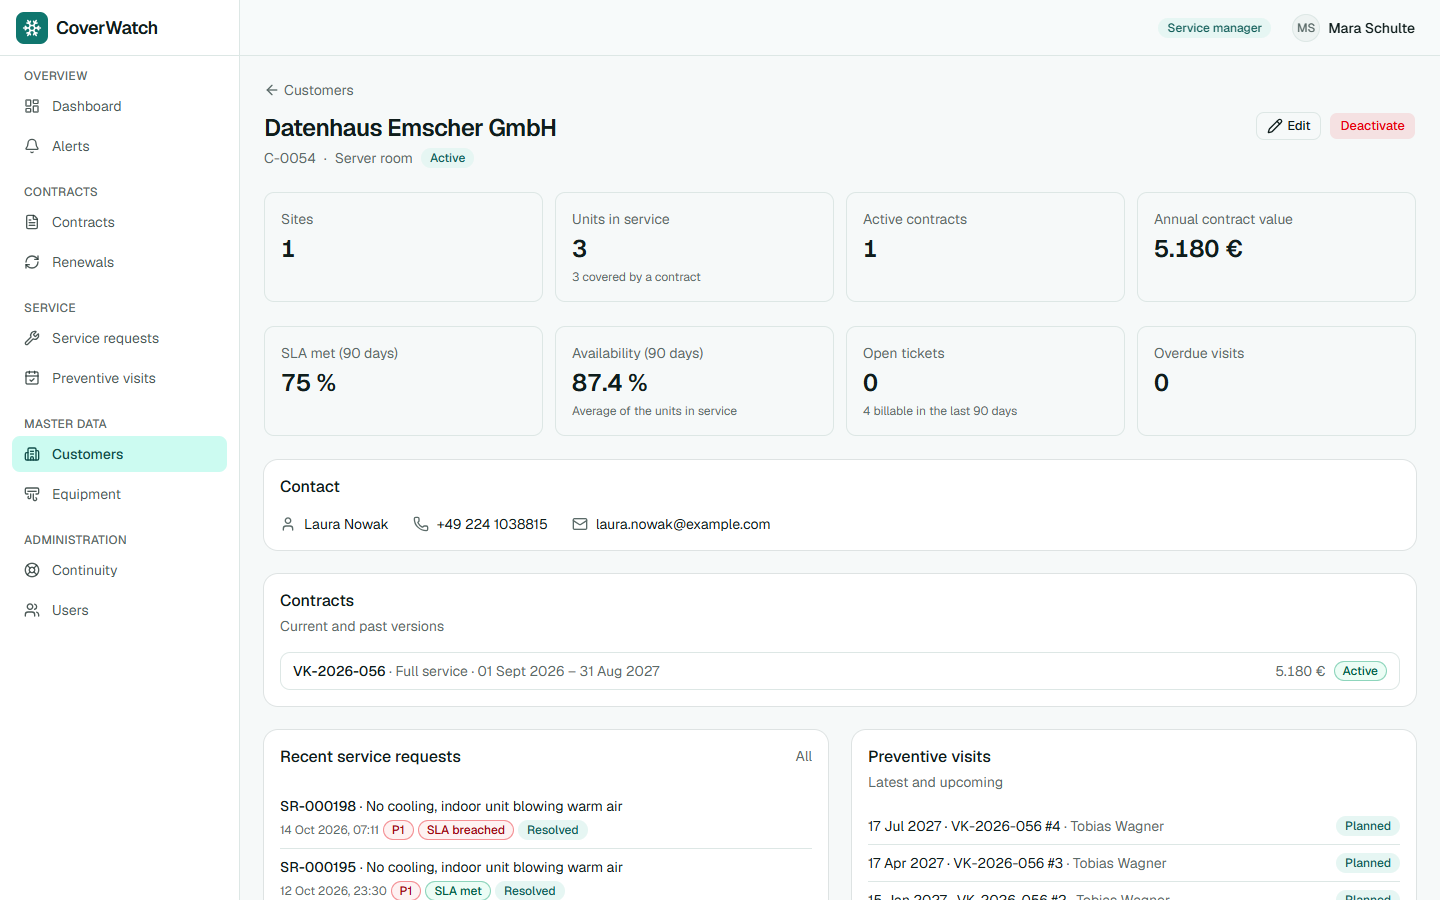
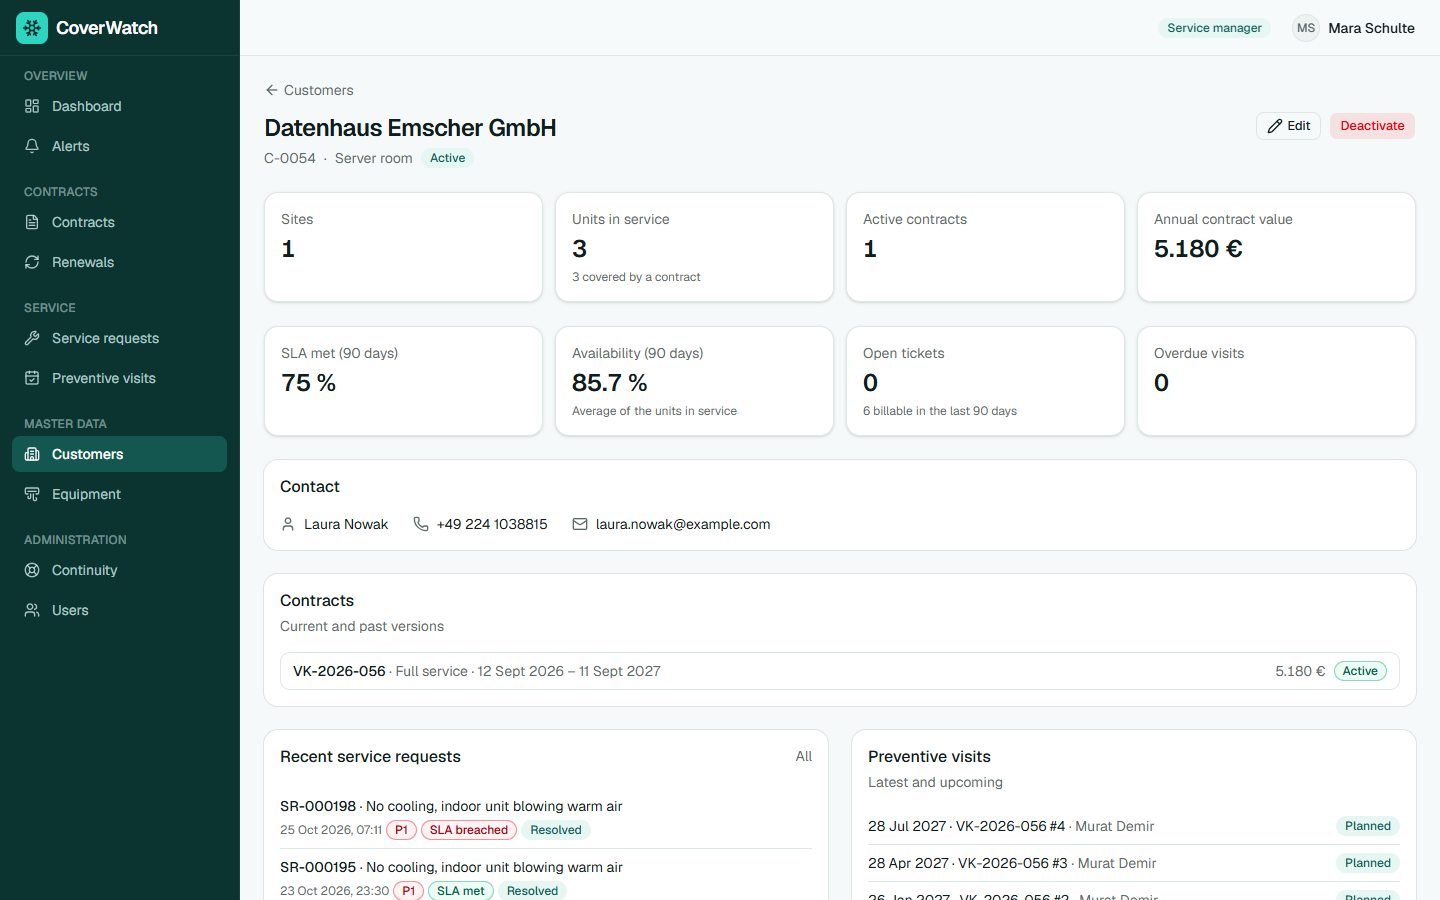
Design: dark petrol sidebar, welcome band and richer KPI tiles
- Dark petrol sidebar and mobile menu with teal active state
- Dashboard welcome band with today's summary and link to alerts
- KPI tiles with icons, grouped sections, red edge and label for
  items that need action; matching style for stat tiles
- README screenshots refreshed with new demo data

diff --git a/app/(app)/dashboard/page.tsx b/app/(app)/dashboard/page.tsx
@@ -2,7 +2,12 @@ import type { Metadata } from "next";
 import Link from "next/link";
 import { connection } from "next/server";
 import { Page } from "@/components/page";
-import { KpiTile } from "@/components/kpi-tile";
+import {
+  Activity, AlertTriangle, Bell, CalendarCheck, CalendarX, Euro, FileText, Receipt, RefreshCw, Timer, Wrench,
+} from "lucide-react";
+import { KpiSection, KpiTile } from "@/components/kpi-tile";
+import { Button } from "@/components/ui/button";
+import { getCurrentUser } from "@/lib/auth";
 import { RenewalValueChart, SlaTrendChart } from "@/components/charts/charts";
 import { Card, CardContent, CardDescription, CardHeader, CardTitle } from "@/components/ui/card";
 import { RENEWAL_BUCKETS, formatEur, type RenewalBucket } from "@/lib/labels";
@@ -12,8 +17,7 @@ export const metadata: Metadata = { title: "Dashboard" };
 
 export default function DashboardPage() {
   return (
-    <Page href="/dashboard" title="Dashboard"
-      description="Portfolio, renewals, service levels and preventive maintenance. Every number is calculated by the database; click a tile to see the list behind it.">
+    <Page href="/dashboard">
       <Dashboard />
     </Page>
   );
@@ -26,7 +30,7 @@ const pct = (v: number | null | undefined) => (v == null ? "–" : `${v} %`);
 
 async function Dashboard() {
   await connection();
-  const supabase = await createClient();
+  const [user, supabase] = await Promise.all([getCurrentUser(), createClient()]);
   const since12m = monthsAgoIso(11);
 
   const [kpiRes, pipelineRes, slaRes, topRes, availRes, alertsRes] = await Promise.all([
@@ -56,39 +60,63 @@ async function Dashboard() {
   const openTickets = (k.open_tickets_p1 ?? 0) + (k.open_tickets_p2 ?? 0) + (k.open_tickets_p3 ?? 0);
 
   return (
-    <div className="space-y-6">
-      <section aria-label="Contracts" className="grid grid-cols-1 gap-3 sm:grid-cols-2 xl:grid-cols-4">
-        <KpiTile label="Active contracts" value={k.active_contracts} href="/contracts?status=ACTIVE"
-          hint={`${k.covered_equipment_count} of ${k.equipment_count} units covered today`} />
-        <KpiTile label="Portfolio annual value" value={formatEur(k.portfolio_annual_value_eur)} href="/contracts?status=ACTIVE"
-          hint="Sum of active contracts" />
-        <KpiTile label="Renewals due in 90 days" value={k.renewals_90d_count} href="/renewals"
-          hint={`${formatEur(k.renewals_90d_value_eur)} annual value at stake`} />
-        <KpiTile label="Renewal decisions overdue" value={k.overdue_decisions_count} href="/renewals"
-          attention={k.overdue_decisions_count ? "Decide now" : undefined}
-          hint={`${formatEur(k.overdue_decisions_value_eur)} at stake`} />
+    <div className="space-y-8">
+      <section className="relative overflow-hidden rounded-2xl bg-gradient-to-br from-[#0b3431] via-[#0f766e] to-[#14b8a6] p-6 text-white shadow-md md:p-8">
+        <div className="pointer-events-none absolute -top-16 -right-10 size-56 rounded-full bg-white/10" aria-hidden />
+        <div className="pointer-events-none absolute -bottom-20 right-32 size-40 rounded-full bg-white/5" aria-hidden />
+        <div className="relative flex flex-wrap items-end justify-between gap-4">
+          <div className="space-y-1">
+            <p className="text-sm text-white/70">{today()} · Velden Klimatechnik GmbH</p>
+            <h1 className="text-2xl font-semibold tracking-tight md:text-3xl">{greeting()}, {user.fullName.split(" ")[0]}</h1>
+            <p className="max-w-xl text-white/80">
+              {alertCount ? <>{alertCount} things need attention today: {k.overdue_decisions_count} renewal decisions, {k.open_tickets_p1} urgent tickets and {k.overdue_visits} overdue visits.</>
+                : "Nothing needs attention today."}
+            </p>
+          </div>
+          <Button asChild variant="secondary" className="bg-white text-[#0b3431] hover:bg-white/90">
+            <Link href="/alerts"><Bell className="size-4" aria-hidden /> View alerts</Link>
+          </Button>
+        </div>
       </section>
 
-      <section aria-label="Service" className="grid grid-cols-1 gap-3 sm:grid-cols-2 xl:grid-cols-4">
-        <KpiTile label="SLA met (last 90 days)" value={pct(k.sla_met_pct_90d)} href="/service-requests?status=all&period=90d"
-          hint="First response within the contract's time" />
-        <KpiTile label="Open tickets" value={openTickets} href="/service-requests"
-          hint={`P1 ${k.open_tickets_p1} · P2 ${k.open_tickets_p2} · P3 ${k.open_tickets_p3}`}
-          attention={k.open_tickets_p1 ? `${k.open_tickets_p1} urgent` : undefined} />
-        <KpiTile label="Billable tickets (90 days)" value={k.billable_tickets_90d} href="/service-requests?status=all&billable=yes&period=90d"
-          hint="Units without contract: sales opportunity" />
-        <KpiTile label="Equipment availability (90 days)"
-          value={k.availability_90d == null ? "–" : `${(k.availability_90d * 100).toFixed(1)} %`} href="#availability"
-          hint="1 − failure hours / hours in period" />
-      </section>
+      <KpiSection title="Contracts and renewals">
+        <div className="grid grid-cols-1 gap-4 sm:grid-cols-2 xl:grid-cols-4">
+          <KpiTile icon={FileText} label="Active contracts" value={k.active_contracts} href="/contracts?status=ACTIVE"
+            hint={`${k.covered_equipment_count} of ${k.equipment_count} units covered today`} />
+          <KpiTile icon={Euro} label="Portfolio annual value" value={formatEur(k.portfolio_annual_value_eur)} href="/contracts?status=ACTIVE"
+            hint="Sum of active contracts" />
+          <KpiTile icon={RefreshCw} label="Renewals due in 90 days" value={k.renewals_90d_count} href="/renewals"
+            hint={`${formatEur(k.renewals_90d_value_eur)} annual value at stake`} />
+          <KpiTile icon={AlertTriangle} label="Renewal decisions overdue" value={k.overdue_decisions_count} href="/renewals"
+            attention={k.overdue_decisions_count ? "Decide now" : undefined}
+            hint={`${formatEur(k.overdue_decisions_value_eur)} at stake`} />
+        </div>
+      </KpiSection>
 
-      <section aria-label="Maintenance" className="grid grid-cols-1 gap-3 sm:grid-cols-3">
-        <KpiTile label="Plan compliance (12 months)" value={pct(k.plan_compliance_pct_12m)} href="/visits?view=done"
-          hint="Visits done within 14 days of their due date" />
-        <KpiTile label="Overdue preventive visits" value={k.overdue_visits} href="/visits?view=overdue"
-          attention={k.overdue_visits ? "Plan them" : undefined} />
-        <KpiTile label="Alerts today" value={alertCount} href="/alerts" hint="Decisions, overdue visits, tickets out of SLA" />
-      </section>
+      <KpiSection title="Service">
+        <div className="grid grid-cols-1 gap-4 sm:grid-cols-2 xl:grid-cols-4">
+          <KpiTile icon={Timer} label="SLA met (last 90 days)" value={pct(k.sla_met_pct_90d)} href="/service-requests?status=all&period=90d"
+            hint="First response within the contract's time" />
+          <KpiTile icon={Wrench} label="Open tickets" value={openTickets} href="/service-requests"
+            hint={`P1 ${k.open_tickets_p1} · P2 ${k.open_tickets_p2} · P3 ${k.open_tickets_p3}`}
+            attention={k.open_tickets_p1 ? `${k.open_tickets_p1} urgent` : undefined} />
+          <KpiTile icon={Receipt} label="Billable tickets (90 days)" value={k.billable_tickets_90d} href="/service-requests?status=all&billable=yes&period=90d"
+            hint="Units without contract: sales opportunity" />
+          <KpiTile icon={Activity} label="Equipment availability (90 days)"
+            value={k.availability_90d == null ? "–" : `${(k.availability_90d * 100).toFixed(1)} %`} href="#availability"
+            hint="1 − failure hours / hours in period" />
+        </div>
+      </KpiSection>
+
+      <KpiSection title="Preventive maintenance">
+        <div className="grid grid-cols-1 gap-4 sm:grid-cols-2 xl:grid-cols-4">
+          <KpiTile icon={CalendarCheck} label="Plan compliance (12 months)" value={pct(k.plan_compliance_pct_12m)} href="/visits?view=done"
+            hint="Visits done within 14 days of their due date" />
+          <KpiTile icon={CalendarX} label="Overdue preventive visits" value={k.overdue_visits} href="/visits?view=overdue"
+            attention={k.overdue_visits ? "Plan them" : undefined} hint="Planned date passed, not done" />
+          <KpiTile icon={Bell} label="Alerts today" value={alertCount} href="/alerts" hint="Decisions, overdue visits, tickets out of SLA" />
+        </div>
+      </KpiSection>
 
       <div className="grid gap-6 lg:grid-cols-2">
         <Card>
@@ -202,4 +230,14 @@ function slaByMonth(rows: { reported_at: string | null; sla_status: string | nul
     if (r.sla_status === "MET") m.met++;
   }
   return months.map((m) => ({ month: m.month, met: m.met, total: m.total, pct: m.total ? Math.round((100 * m.met) / m.total) : null }));
+}
+
+// Greeting and date in the company's time zone.
+function greeting() {
+  const hour = Number(new Intl.DateTimeFormat("en-GB", { hour: "numeric", hourCycle: "h23", timeZone: "Europe/Berlin" }).format(new Date()));
+  return hour < 12 ? "Good morning" : hour < 18 ? "Good afternoon" : "Good evening";
+}
+
+function today() {
+  return new Intl.DateTimeFormat("en-GB", { weekday: "long", day: "numeric", month: "long", year: "numeric", timeZone: "Europe/Berlin" }).format(new Date());
 }

diff --git a/components/kpi-tile.tsx b/components/kpi-tile.tsx
@@ -1,28 +1,36 @@
 import Link from "next/link";
 import type { ReactNode } from "react";
-import { AlertTriangle, ArrowUpRight } from "lucide-react";
+import { AlertTriangle, ArrowUpRight, type LucideIcon } from "lucide-react";
 import { cn } from "@/lib/utils";
 
 // KPI tile that links to the list explaining the number.
-// "attention" adds an icon and label, so the state never relies on color alone.
+// "attention" adds an icon, a label and a red edge, so the state never relies on color alone.
 export function KpiTile({
-  label, value, hint, href, attention,
-}: { label: string; value: ReactNode; hint?: ReactNode; href: string; attention?: string }) {
+  label, value, hint, href, attention, icon: Icon,
+}: { label: string; value: ReactNode; hint?: ReactNode; href: string; attention?: string; icon: LucideIcon }) {
   return (
     <Link
       href={href}
       className={cn(
-        "group flex flex-col justify-between gap-2 rounded-lg border bg-card p-4 transition-colors hover:bg-accent",
-        attention && "border-red-600/40",
+        "group relative flex flex-col gap-3 overflow-hidden rounded-xl border bg-card p-4 shadow-sm transition-all hover:-translate-y-0.5 hover:shadow-md",
+        attention && "border-l-4 border-l-red-500",
       )}
     >
-      <div className="flex items-start justify-between gap-2">
-        <p className="text-sm text-muted-foreground">{label}</p>
-        <ArrowUpRight className="size-4 text-muted-foreground opacity-0 transition-opacity group-hover:opacity-100" aria-hidden />
+      <div className="flex items-center gap-3">
+        <span
+          className={cn(
+            "flex size-9 shrink-0 items-center justify-center rounded-lg",
+            attention ? "bg-red-50 text-red-600 dark:bg-red-950 dark:text-red-400" : "bg-secondary text-primary",
+          )}
+        >
+          <Icon className="size-5" aria-hidden />
+        </span>
+        <p className="text-sm font-medium text-muted-foreground">{label}</p>
+        <ArrowUpRight className="ml-auto size-4 text-muted-foreground opacity-0 transition-opacity group-hover:opacity-100" aria-hidden />
       </div>
-      <p className="text-2xl font-semibold">{value}</p>
+      <p className="text-3xl font-semibold tracking-tight">{value}</p>
       {(hint || attention) && (
-        <p className="flex items-center gap-1 text-xs text-muted-foreground">
+        <p className="flex flex-wrap items-center gap-1 text-xs text-muted-foreground">
           {attention && (
             <span className="inline-flex items-center gap-1 font-medium text-red-700 dark:text-red-400">
               <AlertTriangle className="size-3.5" aria-hidden /> {attention}
@@ -33,5 +41,15 @@ export function KpiTile({
         </p>
       )}
     </Link>
+  );
+}
+
+// Small heading above a group of tiles.
+export function KpiSection({ title, children }: { title: string; children: ReactNode }) {
+  return (
+    <section aria-label={title} className="space-y-3">
+      <h2 className="text-xs font-semibold uppercase tracking-wider text-muted-foreground">{title}</h2>
+      {children}
+    </section>
   );
 }

diff --git a/components/logo.tsx b/components/logo.tsx
@@ -1,18 +1,18 @@
 import { Snowflake } from "lucide-react";
 import { cn } from "@/lib/utils";
 
-export function Logo({ inverted = false, className }: { inverted?: boolean; className?: string }) {
+export function Logo({ inverted = false, onDark = false, className }: { inverted?: boolean; onDark?: boolean; className?: string }) {
   return (
     <div className={cn("flex items-center gap-2 font-semibold tracking-tight", className)}>
       <span
         className={cn(
           "flex size-8 items-center justify-center rounded-md",
-          inverted ? "bg-primary-foreground text-primary" : "bg-primary text-primary-foreground",
+          inverted ? "bg-primary-foreground text-primary" : onDark ? "bg-sidebar-primary text-sidebar-primary-foreground" : "bg-primary text-primary-foreground",
         )}
       >
         <Snowflake className="size-5" aria-hidden />
       </span>
-      <span className="text-lg">CoverWatch</span>
+      <span className={cn("text-lg", onDark && "text-white")}>CoverWatch</span>
     </div>
   );
 }

diff --git a/components/app-shell/nav-links.tsx b/components/app-shell/nav-links.tsx
@@ -32,7 +32,7 @@ export function NavLinks({ role, onNavigate }: { role: Role; onNavigate?: () => 
     <nav className="space-y-5">
       {navFor(role).map((group) => (
         <div key={group.label} className="space-y-1">
-          <p className="px-3 text-xs font-medium uppercase tracking-wide text-muted-foreground">{group.label}</p>
+          <p className="px-3 text-xs font-medium uppercase tracking-wide text-sidebar-foreground/50">{group.label}</p>
           {group.items.map((item) => {
             const Icon = ICONS[item.href] ?? FileText;
             const active = pathname === item.href || pathname.startsWith(item.href + "/");
@@ -64,7 +64,7 @@ export function NavSkeleton() {
   return (
     <div className="space-y-3 px-3" aria-hidden>
       {Array.from({ length: 7 }).map((_, i) => (
-        <div key={i} className="h-7 animate-pulse rounded-md bg-muted" />
+        <div key={i} className="h-7 animate-pulse rounded-md bg-sidebar-accent/50" />
       ))}
     </div>
   );

diff --git a/app/(app)/layout.tsx b/app/(app)/layout.tsx
@@ -10,9 +10,9 @@ import { AccountMenu, MobileMenu, SidebarNav } from "@/components/app-shell/shel
 export default function AppLayout({ children }: LayoutProps<"/">) {
   return (
     <div className="flex min-h-svh">
-      <aside className="sticky top-0 hidden h-svh w-60 shrink-0 flex-col border-r bg-sidebar md:flex">
-        <Link href="/" className="flex h-14 items-center border-b px-4">
-          <Logo />
+      <aside className="sticky top-0 hidden h-svh w-60 shrink-0 flex-col border-r border-sidebar-border bg-sidebar text-sidebar-foreground md:flex">
+        <Link href="/" className="flex h-14 items-center border-b border-sidebar-border px-4">
+          <Logo onDark />
         </Link>
         <div className="flex-1 overflow-y-auto p-3">
           <Suspense fallback={<NavSkeleton />}>

diff --git a/components/app-shell/mobile-nav.tsx b/components/app-shell/mobile-nav.tsx
@@ -19,11 +19,11 @@ export function MobileNav({ role }: { role: Role }) {
           <Menu className="size-5" />
         </Button>
       </SheetTrigger>
-      <SheetContent side="left" className="w-72 bg-sidebar p-0">
-        <SheetHeader className="border-b p-4">
+      <SheetContent side="left" className="w-72 border-sidebar-border bg-sidebar p-0 text-sidebar-foreground">
+        <SheetHeader className="border-b border-sidebar-border p-4">
           <SheetTitle asChild>
             <div>
-              <Logo />
+              <Logo onDark />
             </div>
           </SheetTitle>
         </SheetHeader>

diff --git a/app/globals.css b/app/globals.css
@@ -73,14 +73,14 @@
   --chart-4: #115e59;
   --chart-5: #134e4a;
   --radius: 0.625rem;
-  --sidebar: #ffffff;
-  --sidebar-foreground: #1f2f2d;
-  --sidebar-primary: #0f766e;
-  --sidebar-primary-foreground: #ffffff;
-  --sidebar-accent: #ccfbf1;
-  --sidebar-accent-foreground: #134e4a;
-  --sidebar-border: #dde7e5;
-  --sidebar-ring: #14b8a6;
+  --sidebar: #0b3431;
+  --sidebar-foreground: #d7ebe8;
+  --sidebar-primary: #2dd4bf;
+  --sidebar-primary-foreground: #042f2e;
+  --sidebar-accent: #145750;
+  --sidebar-accent-foreground: #ffffff;
+  --sidebar-border: #16443f;
+  --sidebar-ring: #2dd4bf;
 }
 
 .dark {

diff --git a/components/stat.tsx b/components/stat.tsx
@@ -4,7 +4,7 @@ import { cn } from "@/lib/utils";
 // Small KPI tile.
 export function Stat({ label, value, hint, className }: { label: string; value: ReactNode; hint?: ReactNode; className?: string }) {
   return (
-    <div className={cn("rounded-lg border p-4", className)}>
+    <div className={cn("rounded-xl border bg-card p-4 shadow-sm", className)}>
       <p className="text-sm text-muted-foreground">{label}</p>
       <p className="mt-1 text-2xl font-semibold tabular-nums">{value}</p>
       {hint && <p className="mt-1 text-xs text-muted-foreground">{hint}</p>}
